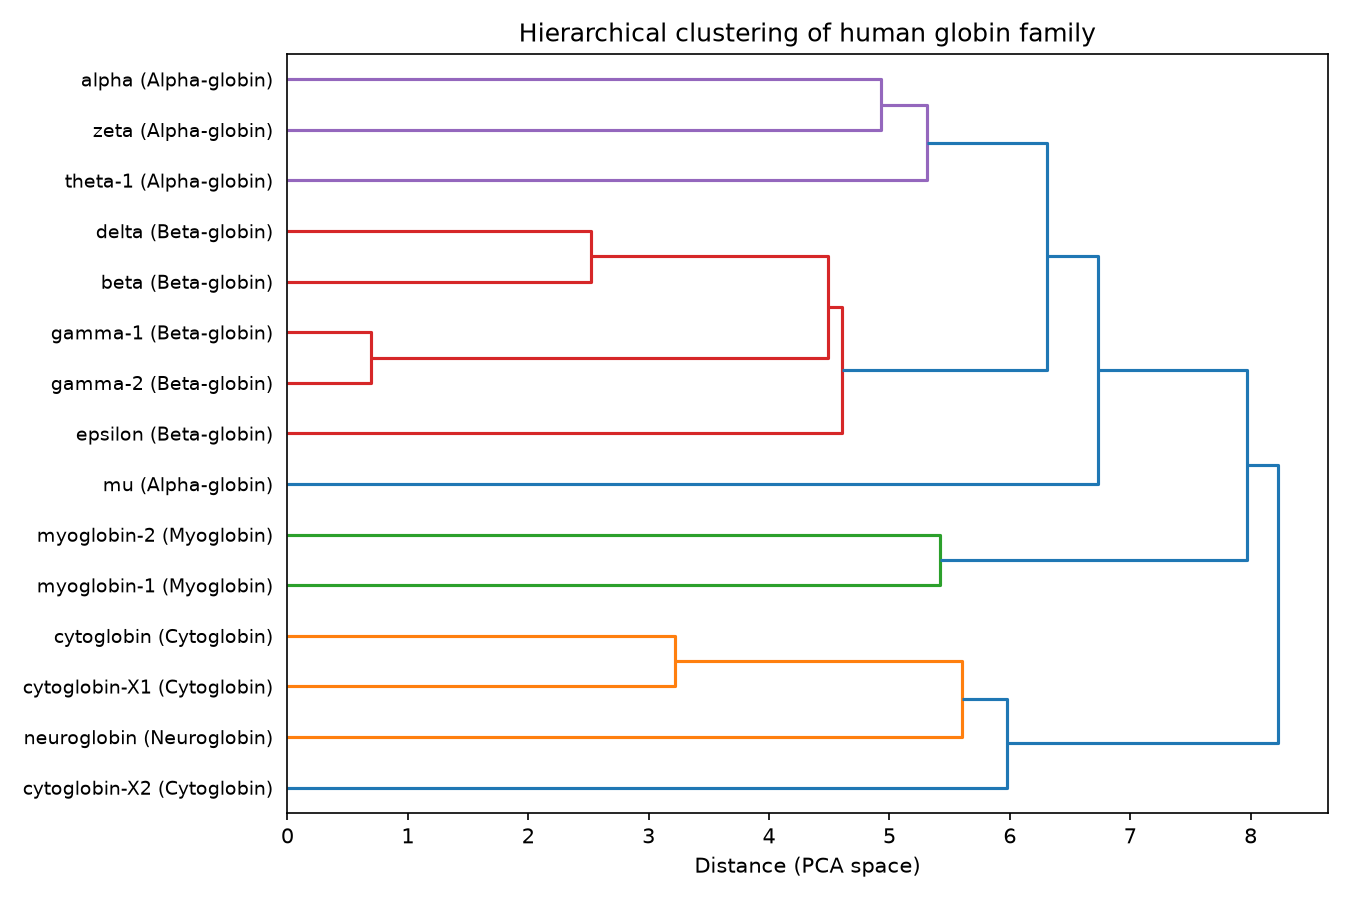
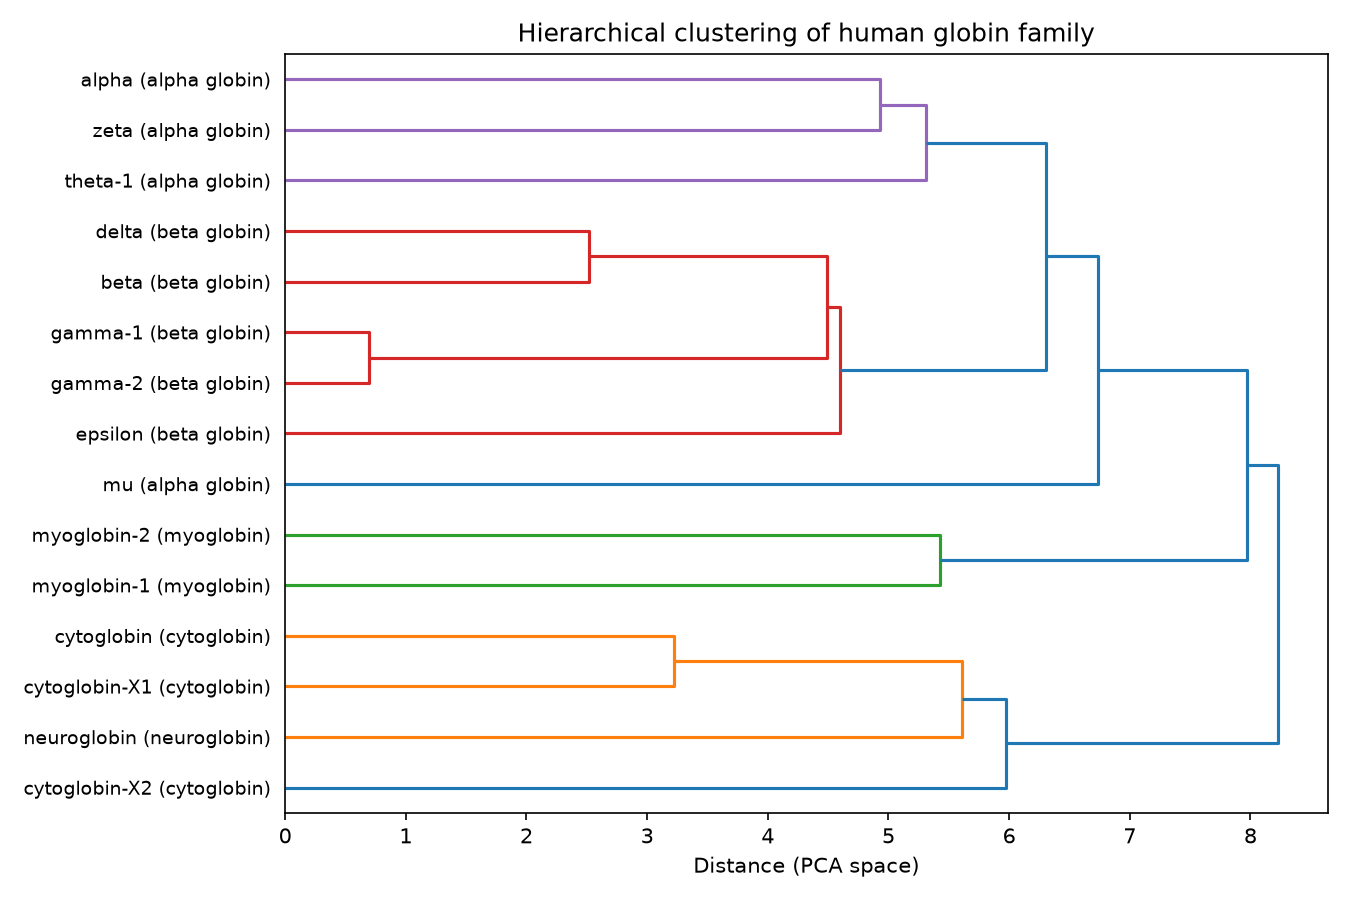
Realigned and redownloaded fasta file of globin sequences

diff --git a/cluster_globins.py b/cluster_globins.py
@@ -11,8 +11,8 @@ from sklearn.metrics import adjusted_rand_score, normalized_mutual_info_score, s
 from sklearn.preprocessing import StandardScaler
 
 OUTPUT = Path("output")
-FASTA_PATH = Path("data/globin_family.fasta")
-LABELS_PATH = Path("data/known_subfamilies.csv")
+FASTA_PATH = Path("data/sequence.fasta")
+LABELS_PATH = Path("data/globins.csv")
 
 ####### LOAD SEQUENCES #######
 
@@ -58,12 +58,14 @@ def main():
 
     sequences = load_sequences(FASTA_PATH)
 
+    
+    labels_df = pd.read_csv(LABELS_PATH, index_col="NCBI")
     feature_df = build_feature_table(sequences)
+    feature_df = feature_df.rename(index=labels_df["name"])
     feature_df.to_csv(OUTPUT/"features_table.csv")
-
-    labels_df = pd.read_csv(LABELS_PATH, index_col="sequence_id")
+    labels_df = labels_df.set_index("name")
     labels_df = labels_df.loc[feature_df.index] 
-    true_family = labels_df["known_subfamily"]
+    true_family = labels_df["gene_cluster"]
 
     # Standardize since features are on different scales 
     # (Molecular weight of globins are in the thousands whilst

diff --git a/README.md b/README.md
@@ -5,8 +5,7 @@ without using sequence alignment?
 
 ## Data
 
-15 human globin protein sequences from NCBI RefSeq. Accessions and known subfamilies are in
-`data/known_subfamilies.csv`.
+Globin sequences from NCBI Protein which were then aligned with COBALT before downloading as a FASTA file.
 
 ## Method
 
@@ -30,8 +29,3 @@ With k = 3, the globins split into hemoglobins, myoglobins and the cellular glob
 The silhouette scores are low (~0.2-0.3) and close together across different k
 number of clusters, so the data don't point strongly to any one number of clusters.
 
-## Limitations
-
-- Amino acid composition as features for K-Means clustering fails to account for 
-  residue order. Whilst protein families are usually grouped by sequence similarity
-  from sequence alignments, which does account for residue order.
